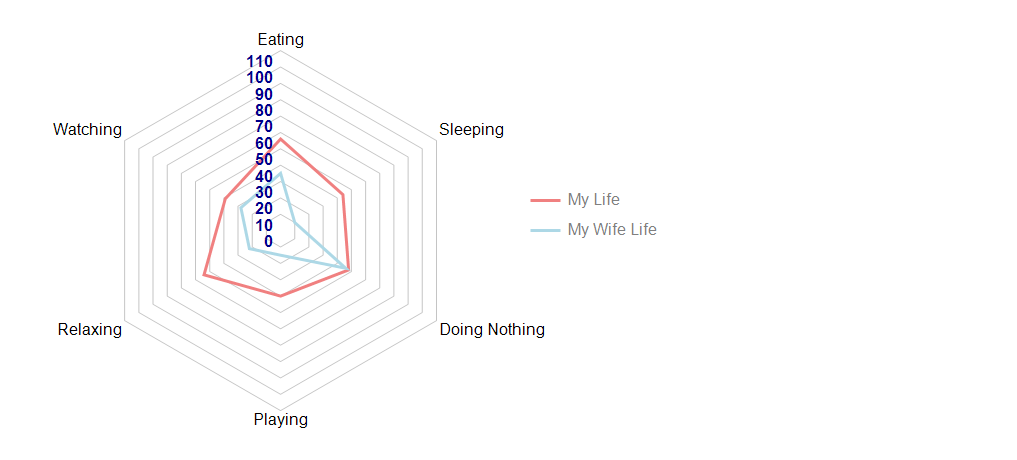
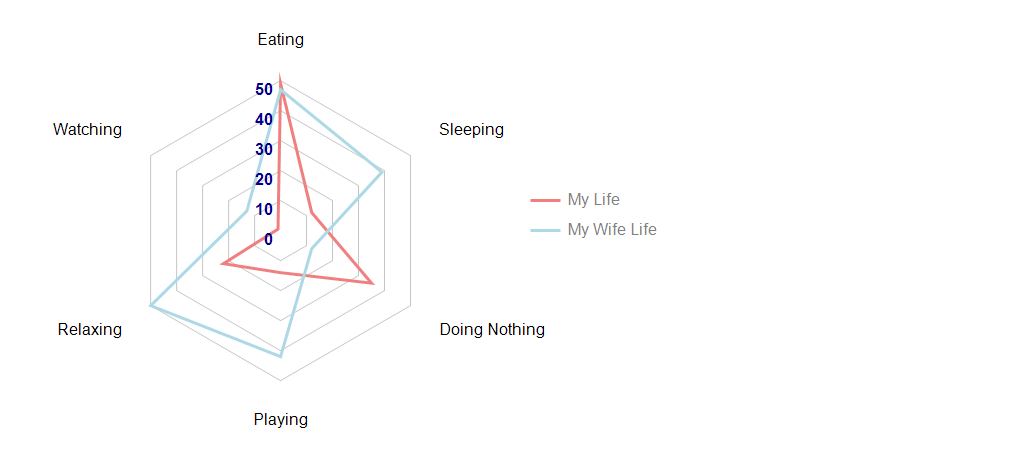
Improve RadarChart

Changed region(s): [[0.1219, 0.1217, 0.4267, 0.8217], [0.3963, 0.6391, 0.4267, 0.6696]]

diff --git a/SimpleImageChartsDemo/Form1.Designer.cs b/SimpleImageChartsDemo/Form1.Designer.cs
@@ -92,7 +92,7 @@
             // btnColumnChart
             // 
             this.btnColumnChart.Anchor = ((System.Windows.Forms.AnchorStyles)((System.Windows.Forms.AnchorStyles.Top | System.Windows.Forms.AnchorStyles.Right)));
-            this.btnColumnChart.Location = new System.Drawing.Point(623, 3);
+            this.btnColumnChart.Location = new System.Drawing.Point(747, 3);
             this.btnColumnChart.Name = "btnColumnChart";
             this.btnColumnChart.Size = new System.Drawing.Size(118, 36);
             this.btnColumnChart.TabIndex = 4;
@@ -125,7 +125,7 @@
             // btnRadarChart
             // 
             this.btnRadarChart.Anchor = ((System.Windows.Forms.AnchorStyles)((System.Windows.Forms.AnchorStyles.Top | System.Windows.Forms.AnchorStyles.Right)));
-            this.btnRadarChart.Location = new System.Drawing.Point(747, 3);
+            this.btnRadarChart.Location = new System.Drawing.Point(3, 45);
             this.btnRadarChart.Name = "btnRadarChart";
             this.btnRadarChart.Size = new System.Drawing.Size(118, 36);
             this.btnRadarChart.TabIndex = 7;
@@ -136,7 +136,7 @@
             // btnSingleRangeBarChart
             // 
             this.btnSingleRangeBarChart.Anchor = ((System.Windows.Forms.AnchorStyles)((System.Windows.Forms.AnchorStyles.Top | System.Windows.Forms.AnchorStyles.Right)));
-            this.btnSingleRangeBarChart.Location = new System.Drawing.Point(871, 3);
+            this.btnSingleRangeBarChart.Location = new System.Drawing.Point(127, 45);
             this.btnSingleRangeBarChart.Name = "btnSingleRangeBarChart";
             this.btnSingleRangeBarChart.Size = new System.Drawing.Size(118, 36);
             this.btnSingleRangeBarChart.TabIndex = 8;
@@ -153,11 +153,11 @@
             this.flowLayoutPanel1.Controls.Add(this.btnBarChart);
             this.flowLayoutPanel1.Controls.Add(this.btnStackedBar);
             this.flowLayoutPanel1.Controls.Add(this.btnDoubleAxisBar);
+            this.flowLayoutPanel1.Controls.Add(this.btnStackedBar100Percent);
             this.flowLayoutPanel1.Controls.Add(this.btnColumnChart);
+            this.flowLayoutPanel1.Controls.Add(this.btnStackedColumn100Percent);
             this.flowLayoutPanel1.Controls.Add(this.btnRadarChart);
             this.flowLayoutPanel1.Controls.Add(this.btnSingleRangeBarChart);
-            this.flowLayoutPanel1.Controls.Add(this.btnStackedBar100Percent);
-            this.flowLayoutPanel1.Controls.Add(this.btnStackedColumn100Percent);
             this.flowLayoutPanel1.Location = new System.Drawing.Point(22, 478);
             this.flowLayoutPanel1.Name = "flowLayoutPanel1";
             this.flowLayoutPanel1.Size = new System.Drawing.Size(1017, 111);
@@ -166,7 +166,7 @@
             // btnStackedBar100Percent
             // 
             this.btnStackedBar100Percent.Anchor = ((System.Windows.Forms.AnchorStyles)((System.Windows.Forms.AnchorStyles.Top | System.Windows.Forms.AnchorStyles.Right)));
-            this.btnStackedBar100Percent.Location = new System.Drawing.Point(3, 45);
+            this.btnStackedBar100Percent.Location = new System.Drawing.Point(623, 3);
             this.btnStackedBar100Percent.Name = "btnStackedBar100Percent";
             this.btnStackedBar100Percent.Size = new System.Drawing.Size(118, 36);
             this.btnStackedBar100Percent.TabIndex = 9;
@@ -177,7 +177,7 @@
             // btnStackedColumn100Percent
             // 
             this.btnStackedColumn100Percent.Anchor = ((System.Windows.Forms.AnchorStyles)((System.Windows.Forms.AnchorStyles.Top | System.Windows.Forms.AnchorStyles.Right)));
-            this.btnStackedColumn100Percent.Location = new System.Drawing.Point(127, 45);
+            this.btnStackedColumn100Percent.Location = new System.Drawing.Point(871, 3);
             this.btnStackedColumn100Percent.Name = "btnStackedColumn100Percent";
             this.btnStackedColumn100Percent.Size = new System.Drawing.Size(118, 36);
             this.btnStackedColumn100Percent.TabIndex = 10;

diff --git a/SimpleImageCharts/RadarChart/RadarChart.cs b/SimpleImageCharts/RadarChart/RadarChart.cs
@@ -1,13 +1,13 @@
-using System;
-using System.Collections.Generic;
-using System.Drawing;
-using System.Linq;
-using GdiSharp.Components;
+using GdiSharp.Components;
 using GdiSharp.Components.Base;
 using GdiSharp.Models;
 using SimpleImageCharts.Core;
 using SimpleImageCharts.Core.Models;
 using SimpleImageCharts.Helpers;
+using System;
+using System.Collections.Generic;
+using System.Drawing;
+using System.Linq;
 
 namespace SimpleImageCharts.RadarChart
 {
@@ -44,7 +44,12 @@ namespace SimpleImageCharts.RadarChart
         protected override void Init(GdiContainer mainContainer, GdiRectangle chartContainer)
         {
             base.Init(mainContainer, chartContainer);
-            if (Categories.Length < 3)
+            if (StepSize <= 0)
+            {
+                throw new ArgumentException("Invalid StepSize");
+            }
+
+            if (StepSize <= 0 || Categories.Length < 3)
             {
                 throw new ArgumentException("Invalid data");
             }
@@ -53,23 +58,14 @@ namespace SimpleImageCharts.RadarChart
             _centerPoint = new PointF(Padding.Left + _maxRadius, Padding.Top + _maxRadius);
 
             var maxDataValue = MaxDataValue > 0 ? MaxDataValue : DataSets.SelectMany(x => x.Data).Max();
-            var firstDigit = MathHelper.GetFirstDigit(maxDataValue);
-            // test again with value <= 10
-            _numberOfSteps = firstDigit + 1;
 
-            var roundMaxValue = int.Parse(firstDigit.ToString().PadRight(maxDataValue.ToString().Length, '0'));
-            if (StepSize == 0)
-            {
-                StepSize = roundMaxValue / firstDigit;
-            }
-            else
-            {
-                _numberOfSteps = roundMaxValue / StepSize + 1;
-            }
+            maxDataValue = (int)Math.Ceiling((double)maxDataValue / StepSize) * StepSize; // round it
+
+            _numberOfSteps = maxDataValue / StepSize + 1;
 
             // remove this variable
             _stepSizeInPixel = _maxRadius / _numberOfSteps;
-            _unitPixel = _maxRadius / (roundMaxValue + StepSize);
+            _unitPixel = _maxRadius / (maxDataValue + StepSize);
         }
 
         protected override void Draw(Graphics graphics)
@@ -77,7 +73,7 @@ namespace SimpleImageCharts.RadarChart
             base.Draw(graphics);
             graphics.SmoothingMode = System.Drawing.Drawing2D.SmoothingMode.AntiAlias;
 
-            for (int i = 0; i <= _numberOfSteps; i++)
+            for (int i = 0; i < _numberOfSteps; i++)
             {
                 DrawGridLine(graphics, i * StepSize * _unitPixel, _centerPoint);
             }
@@ -120,9 +116,9 @@ namespace SimpleImageCharts.RadarChart
             using (var font = ValueFont.ToFatFont())
             {
                 stringFormat.Alignment = StringAlignment.Far;
-                for (int i = 0; i <= numberOfStep; i++)
+                for (int i = 0; i < numberOfStep; i++)
                 {
-                    graphic.DrawString((i * StepSize).ToString(), font, Brushes.DarkBlue, root.X - 4, root.Y - i * _stepSizeInPixel + 2, stringFormat);
+                    graphic.DrawString((i * StepSize).ToString(), font, Brushes.DarkBlue, root.X - 4, root.Y - i * _stepSizeInPixel, stringFormat);
                 }
             }
         }

diff --git a/SimpleImageChartsDemo/Charts/RadarChartCreator.cs b/SimpleImageChartsDemo/Charts/RadarChartCreator.cs
@@ -12,7 +12,7 @@ namespace WindowsFormsChart.Charts
             var categories = new[] { "Eating", "Sleeping", "Doing Nothing", "Playing", "Relaxing", "Watching" };
             var chart = new RadarChart
             {
-                MaxDataValue = 100,
+             //   MaxDataValue = 100,
                 StepSize = 10,
                 Size = size,
                 Categories = categories,
@@ -22,13 +22,13 @@ namespace WindowsFormsChart.Charts
                     {
                         Label = "My Life",
                         Color = Color.LightCoral,
-                        Data = GenerateRandomArray(random, categories.Length, 10, 60),
+                        Data = GenerateRandomArray(random, categories.Length, 1, 50),
                     },
                     new RadarChartSeries
                     {
                         Label = "My Wife Life",
                         Color = Color.LightBlue,
-                        Data = GenerateRandomArray(random, categories.Length, 10, 70),
+                        Data = GenerateRandomArray(random, categories.Length, 1, 100),
                     }
                 }
             };

diff --git a/SimpleImageCharts/Helpers/MathHelper.cs b/SimpleImageCharts/Helpers/MathHelper.cs
@@ -17,16 +17,5 @@ namespace SimpleImageCharts.Helpers
                 Y = (float)Math.Sin(-radian) * radius + center.Y
             };
         }
-
-        public static int GetFirstDigit(int number)
-        {
-            var result = number;
-            while (result >= 10)
-            {
-                result /= 10;
-            }
-
-            return result;
-        }
     }
 }

diff --git a/README.md b/README.md
@@ -304,12 +304,12 @@ var chart = new StackedColumn100Chart
 <img src="https://raw.githubusercontent.com/phamtung1/SimpleImageCharts/master/screenshots/RadarChart.jpg" />
 
 ```csharp
-var random = new Random();
 var categories = new[] { "Eating", "Sleeping", "Doing Nothing", "Playing", "Relaxing", "Watching" };
 var chart = new RadarChart
 {
-    Width = 600,
-    Height = 300,
+    //   MaxDataValue = 100,
+    StepSize = 10,
+    Size = size,
     Categories = categories,
     DataSets = new[]
     {
@@ -317,18 +317,16 @@ var chart = new RadarChart
         {
             Label = "My Life",
             Color = Color.LightCoral,
-            Data = GenerateRandomArray(random, categories.Length, 10, 60),
+            Data = GenerateRandomArray(random, categories.Length, 1, 50),
         },
         new RadarChartSeries
         {
             Label = "My Wife Life",
             Color = Color.LightBlue,
-            Data = GenerateRandomArray(random, categories.Length, 10, 70),
+            Data = GenerateRandomArray(random, categories.Length, 1, 100),
         }
     }
 };
-
-var bitmap = chart.CreateImage();
 ```
 ## 10. Single Range Bar Chart
 <img src="https://raw.githubusercontent.com/phamtung1/SimpleImageCharts/master/screenshots/SingleRangeBarChart.jpg" />
